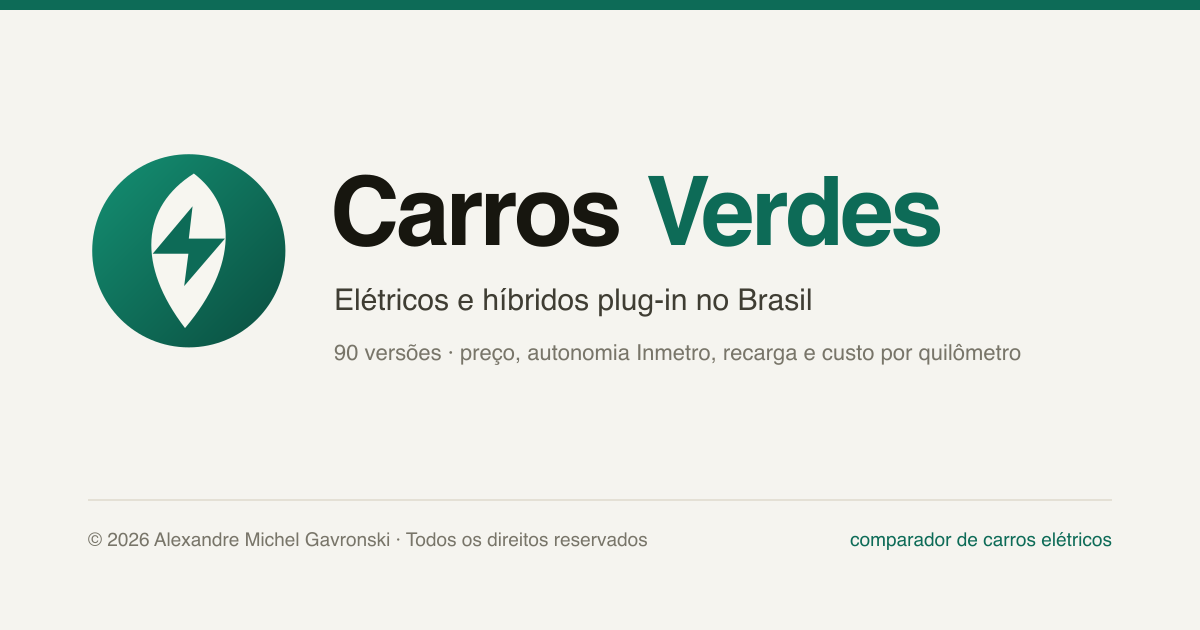
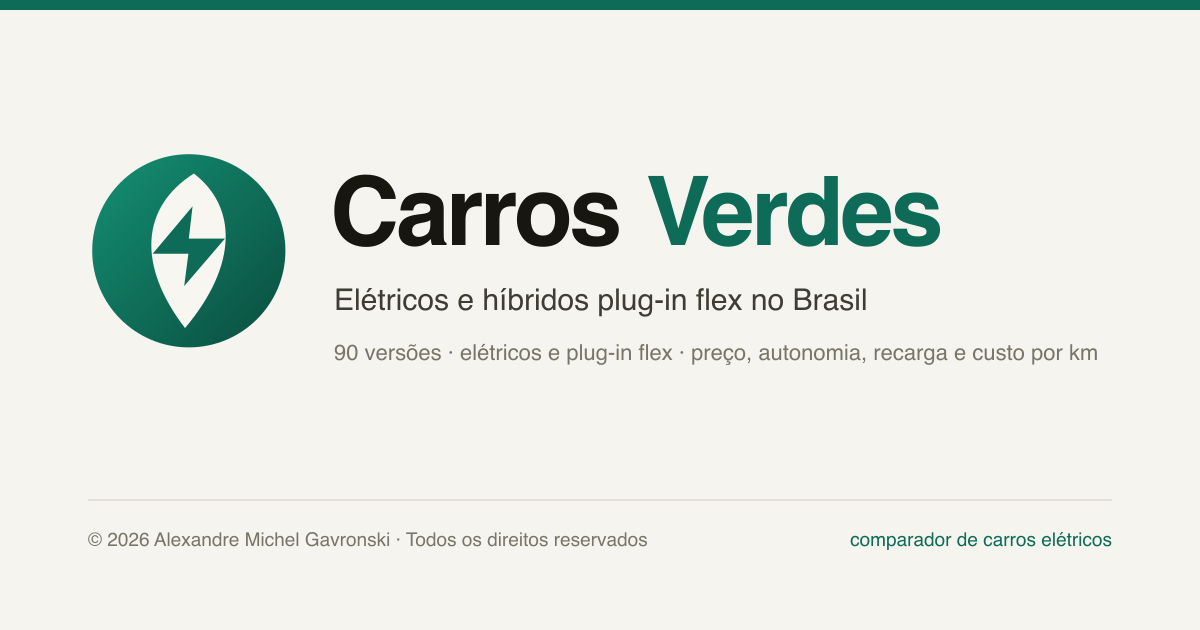
Corrige a nomenclatura: os híbridos da base são plug-in flex
Os 11 plug-in do conjunto são todos flex (verificado em data/cars.json),
então a categoria passa a ser nomeada como 'plug-in flex' na assinatura da
marca, no título e metadados, na aba, no hero, nas fichas, no CSV e no README.

- cartão plug-in: rótulo de autonomia encurtado para 'Elétrica' (não truncava mais)
- cartão social e lockup regenerados com a nova assinatura

Changed region(s): [[0.37, 0.5429, 0.925, 0.573], [0.5858, 0.4524, 0.74, 0.5127]]

diff --git a/index.html b/index.html
@@ -3,8 +3,8 @@
 <head>
 <meta charset="utf-8">
 <meta name="viewport" content="width=device-width, initial-scale=1">
-<title>Carros Verdes — comparador de carros elétricos e híbridos plug-in do Brasil</title>
-<meta name="description" content="Compare preço, autonomia Inmetro, recarga, equipamentos e custo por quilômetro das versões de carros elétricos e híbridos plug-in à venda no Brasil. Cada número com a fonte ao lado.">
+<title>Carros Verdes — comparador de carros elétricos e híbridos plug-in flex do Brasil</title>
+<meta name="description" content="Compare preço, autonomia Inmetro, recarga, equipamentos e custo por quilômetro das versões de carros elétricos e híbridos plug-in flex à venda no Brasil. Cada número com a fonte ao lado.">
 <meta name="author" content="Alexandre Michel Gavronski">
 <meta name="copyright" content="© 2026 Alexandre Michel Gavronski. Todos os direitos reservados.">
 <meta name="robots" content="index, follow">
@@ -14,15 +14,15 @@
 <meta property="og:type" content="website">
 <meta property="og:site_name" content="Carros Verdes">
 <meta property="og:locale" content="pt_BR">
-<meta property="og:title" content="Carros Verdes — o comparador de elétricos e híbridos plug-in do Brasil">
+<meta property="og:title" content="Carros Verdes — o comparador de elétricos e híbridos plug-in flex do Brasil">
 <meta property="og:description" content="90 versões com preço de tabela, autonomia, recarga, equipamentos e custo real por quilômetro — com a fonte de cada número.">
 <meta property="og:url" content="https://alemigav.github.io/carros-verdes/">
 <meta property="og:image" content="https://alemigav.github.io/carros-verdes/assets/og-image.png">
 <meta property="og:image:width" content="1200">
 <meta property="og:image:height" content="630">
-<meta property="og:image:alt" content="Carros Verdes — comparador de carros elétricos e híbridos plug-in do Brasil">
+<meta property="og:image:alt" content="Carros Verdes — comparador de carros elétricos e híbridos plug-in flex do Brasil">
 <meta name="twitter:card" content="summary_large_image">
-<meta name="twitter:title" content="Carros Verdes — comparador de elétricos e híbridos plug-in do Brasil">
+<meta name="twitter:title" content="Carros Verdes — comparador de elétricos e híbridos plug-in flex do Brasil">
 <meta name="twitter:description" content="90 versões com preço, autonomia, recarga e custo por quilômetro — com a fonte de cada número.">
 <meta name="twitter:image" content="https://alemigav.github.io/carros-verdes/assets/og-image.png">
 
@@ -52,14 +52,14 @@
       </span>
       <span class="brand__text">
         <span class="brand__name">Carros <em>Verdes</em></span>
-        <span class="brand__tag">Elétricos e híbridos plug-in no Brasil</span>
+        <span class="brand__tag">Elétricos e híbridos plug-in flex no Brasil</span>
       </span>
     </a>
 
     <div class="masthead__controls">
       <div class="switch" id="dataset-switch" role="tablist" aria-label="Tipo de motorização">
         <button role="tab" data-mode="BEV" class="is-active" aria-selected="true">100% elétricos <span id="count-bev"></span></button>
-        <button role="tab" data-mode="PHEV" aria-selected="false">Híbridos plug-in <span id="count-phev"></span></button>
+        <button role="tab" data-mode="PHEV" aria-selected="false">Plug-in flex <span id="count-phev"></span></button>
       </div>
       <button class="ghost-btn" id="btn-sidebar" aria-expanded="false" aria-controls="sidebar">Filtros</button>
     </div>
@@ -78,7 +78,7 @@
   </div>
   <dl class="hero__stats">
     <div><dt>Elétricos</dt><dd id="hero-bev">—</dd></div>
-    <div><dt>Plug-in</dt><dd id="hero-phev">—</dd></div>
+    <div><dt>Plug-in flex</dt><dd id="hero-phev">—</dd></div>
     <div><dt>Versões</dt><dd id="hero-total">—</dd></div>
     <div><dt>Preços de</dt><dd id="hero-range">—</dd></div>
   </dl>

diff --git a/app.js b/app.js
@@ -504,7 +504,7 @@ function recompute() {
 function renderCount(cars) {
   const total = state.cars.filter((c) => c.motorizacao === state.mode).length;
   document.getElementById('result-count').textContent =
-    `${cars.length} de ${total} ${state.mode === 'BEV' ? 'carros elétricos' : 'híbridos plug-in'}`;
+    `${cars.length} de ${total} ${state.mode === 'BEV' ? 'carros elétricos' : 'híbridos plug-in flex'}`;
 }
 
 function syncChipClasses() {
@@ -763,7 +763,7 @@ function openDetail(id) {
   const html = `
     <div class="sheet__head">
       <div>
-        <p>${car.marca} · ${BODY_LABELS[car.carroceria] || car.carroceria || ''} ${car.motorizacao === 'PHEV' ? '· híbrido plug-in' : '· elétrico'}</p>
+        <p>${car.marca} · ${BODY_LABELS[car.carroceria] || car.carroceria || ''} ${car.motorizacao === 'PHEV' ? '· híbrido plug-in flex' : '· elétrico'}</p>
         <h2>${car.modelo}</h2>
         <p>${car.versao || car.versao_pesquisada || ''}</p>
       </div>
@@ -792,7 +792,7 @@ function openDetail(id) {
                 <span class="breakdown__weight">${weight}%</span>
               </div>`;
             }).join('')}</div>
-            <p class="hint" style="margin:8px 0 0">Cada barra mostra como este carro se posiciona frente aos outros ${state.mode === 'BEV' ? 'elétricos' : 'plug-in'} nesse critério (0–100). A última coluna é o peso que você deu a ele.</p>
+            <p class="hint" style="margin:8px 0 0">Cada barra mostra como este carro se posiciona frente aos outros ${state.mode === 'BEV' ? 'elétricos' : 'plug-in flex'} nesse critério (0–100). A última coluna é o peso que você deu a ele.</p>
           </section>`
         : ''}
       ${groups
@@ -1038,7 +1038,7 @@ function exportCsv() {
   const url = URL.createObjectURL(blob);
   const link = document.createElement('a');
   link.href = url;
-  link.download = `carros-verdes-${state.mode === 'BEV' ? 'eletricos' : 'plug-in'}-${new Date().toISOString().slice(0, 10)}.csv`;
+  link.download = `carros-verdes-${state.mode === 'BEV' ? 'eletricos' : 'plug-in-flex'}-${new Date().toISOString().slice(0, 10)}.csv`;
   document.body.appendChild(link);
   link.click();
   link.remove();
@@ -1058,7 +1058,7 @@ async function boot() {
   document.getElementById('count-bev').textContent = bev;
   document.getElementById('count-phev').textContent = phev;
   document.getElementById('topbar-meta').textContent =
-    `Preços de ${state.meta.preco_referencia} · ${bev} elétricos + ${phev} plug-in · ${state.cars.length} versões`;
+    `Preços de ${state.meta.preco_referencia} · ${bev} elétricos + ${phev} plug-in flex · ${state.cars.length} versões`;
 
   const priced = state.cars.filter((c) => c.preco_brl);
   const from = priced.length ? Math.min(...priced.map((c) => c.preco_brl)) : null;

diff --git a/views.js b/views.js
@@ -152,7 +152,7 @@ function renderCards(input) {
       const monthly = annualCost(car) == null ? null : annualCost(car) / 12;
       const running = per100 == null
         ? ''
-        : `<div class="card__note" title="Energia (e combustível, nos híbridos plug-in) mais manutenção">Rodar ≈ ${money2(per100)}/100 km · ${money(monthly)}/mês a ${n0(state.cost.kmYear)} km/ano</div>`;
+        : `<div class="card__note" title="Energia (e combustível, nos híbridos plug-in flex) mais manutenção">Rodar ≈ ${money2(per100)}/100 km · ${money(monthly)}/mês a ${n0(state.cost.kmYear)} km/ano</div>`;
 
       return `<article class="card ${selected.has(car.id) ? 'is-selected' : ''}" data-id="${car.id}">
         <div class="card__top">
@@ -170,7 +170,7 @@ function renderCards(input) {
           ${delta}
         </div>
         <div class="card__stats">
-          ${stat(car.motorizacao === 'PHEV' ? 'Autonomia elétrica' : 'Autonomia', car.autonomia_referencia_km, 'km')}
+          ${stat(car.motorizacao === 'PHEV' ? 'Elétrica' : 'Autonomia', car.autonomia_referencia_km, 'km')}
           ${stat('Potência', car.potencia_cv || car.potencia_combinada_cv, 'cv')}
           ${stat('DC', car.recarga_dc_kw, 'kW')}
           ${stat('0–100', car.zero_a_cem_s ? n1(car.zero_a_cem_s) : null, 's')}
@@ -474,7 +474,7 @@ function renderCost(input) {
           <input type="range" id="cost-share" min="0" max="100" step="5" value="${c.homeShare}"></label>
         <label>Gasolina / etanol <b>R$/L</b>
           <input type="number" id="cost-fuel" min="0" max="15" step="0.1" value="${c.fuelPrice}"></label>
-        <label>Plug-in: km no elétrico <b>${c.electricShare}%</b>
+        <label>Plug-in flex: km no elétrico <b>${c.electricShare}%</b>
           <input type="range" id="cost-eshare" min="0" max="100" step="5" value="${c.electricShare}"></label>
         <label>Manutenção e pneus por ano <b>R$</b>
           <input type="number" id="cost-maint" min="0" max="20000" step="100" value="${c.maintenance}"></label>
@@ -516,7 +516,7 @@ function renderCost(input) {
       </div>
       <p class="hint" style="margin-top:10px">
         Somente energia e manutenção. Preço de compra, seguro, depreciação, pedágios e instalação do carregador em casa
-        ficam de fora, e o consumo real de um híbrido plug-in depende de quantas vezes você realmente o pluga —
+        ficam de fora, e o consumo real de um híbrido plug-in flex depende de quantas vezes você realmente o pluga —
         ajuste a fatia elétrica acima para ver os dois extremos.
       </p>
     </div>

diff --git a/README.md b/README.md
@@ -1,6 +1,6 @@
 # Carros Verdes
 
-Comparador de carros elétricos e híbridos plug-in à venda no Brasil: preço de tabela,
+Comparador de carros elétricos e híbridos plug-in flex à venda no Brasil: preço de tabela,
 autonomia Inmetro, recarga, equipamentos e custo real por quilômetro — com a fonte de
 cada número ao lado.
 
@@ -16,7 +16,7 @@ cada número ao lado.
 
 ## O que a interface faz
 
-- **90 versões** no total — 79 elétricos e 11 híbridos plug-in, com preço de 20/11/2026.
+- **90 versões** no total — 79 elétricos e 11 híbridos plug-in flex, com preço de 20/11/2026.
 - **Nota pessoal de 0 a 100**: oito critérios com peso ajustável (custo-benefício,
   autonomia, eficiência, recarga rápida, desempenho, espaço, segurança, conforto).
   Seis presets (Equilibrado, Cidade e economia, Viagens longas, Família, Bem equipado,
